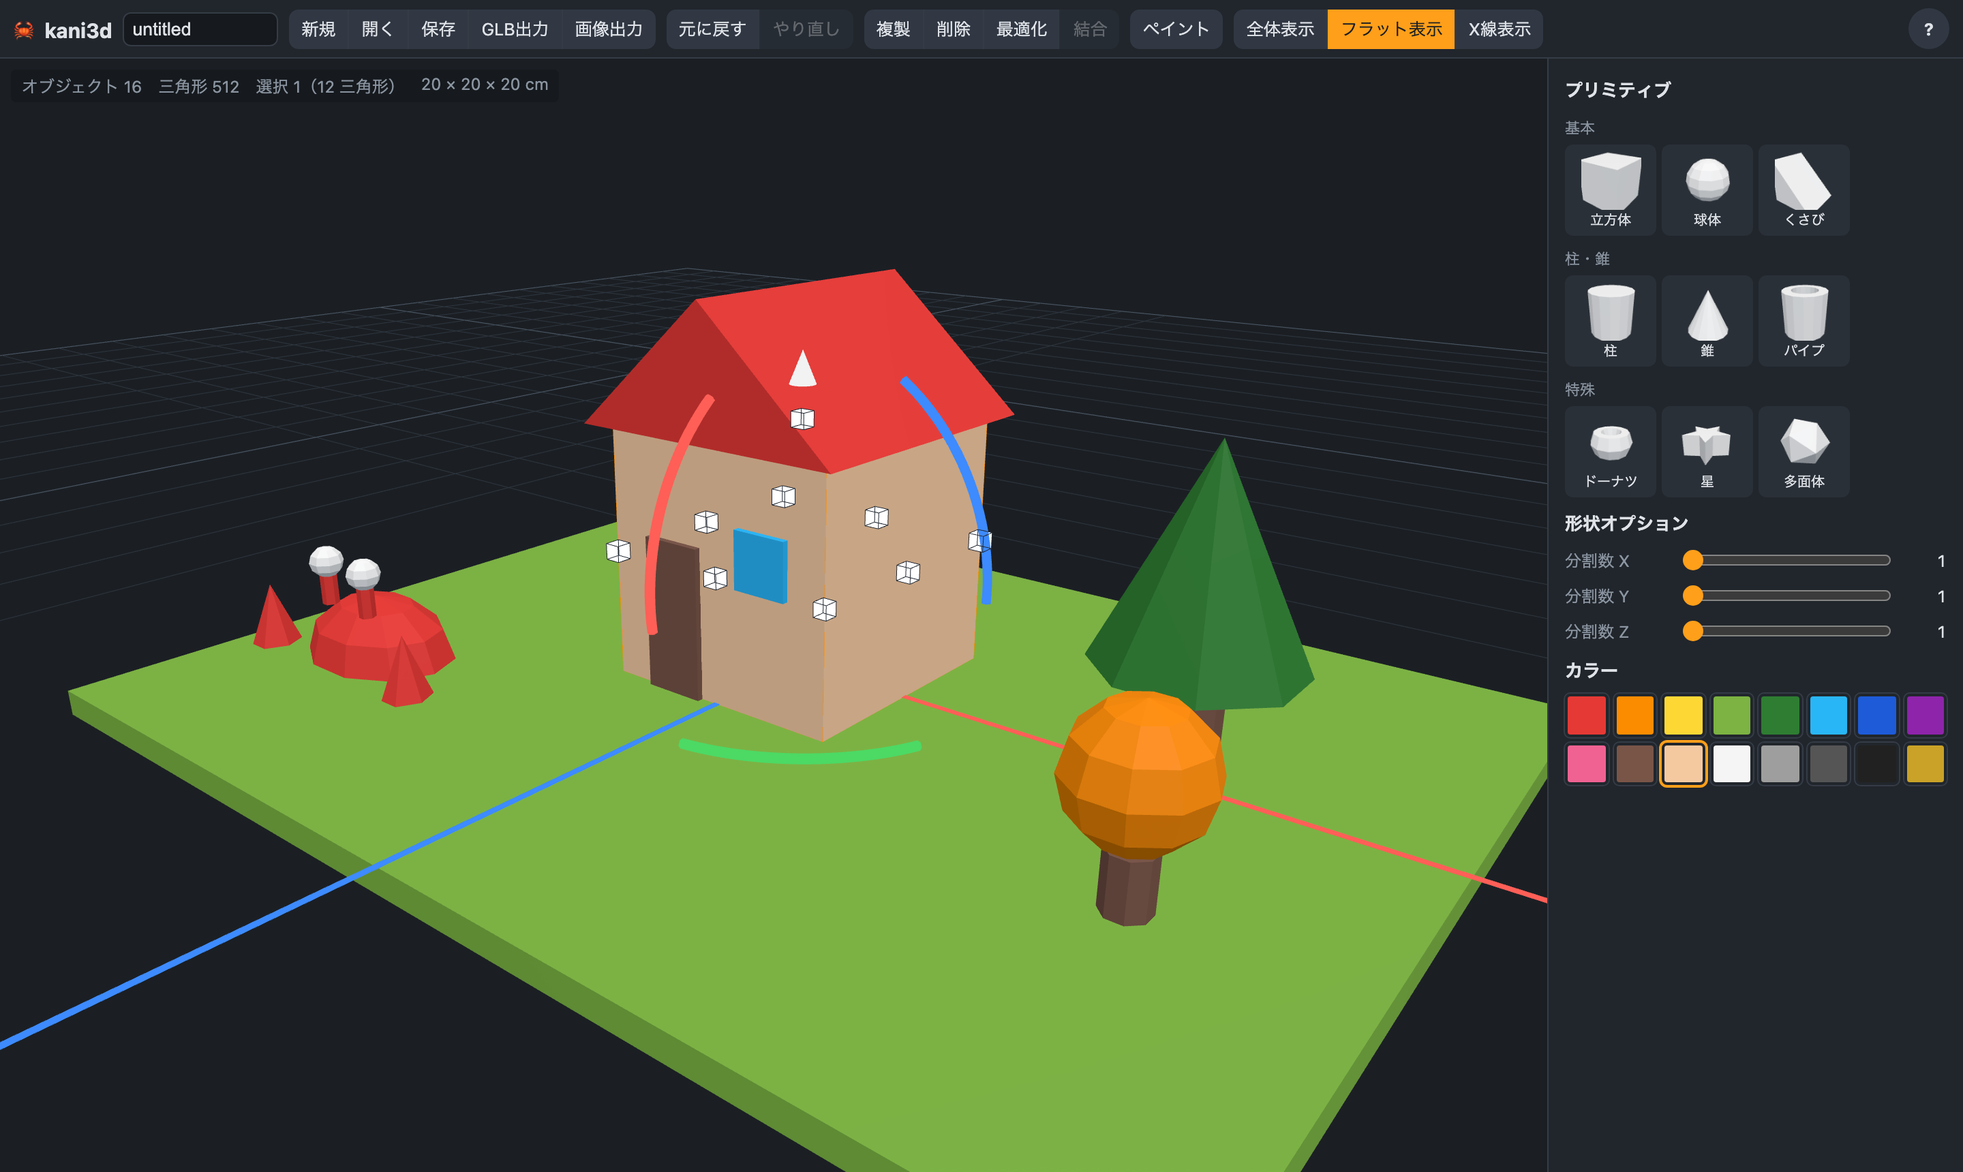
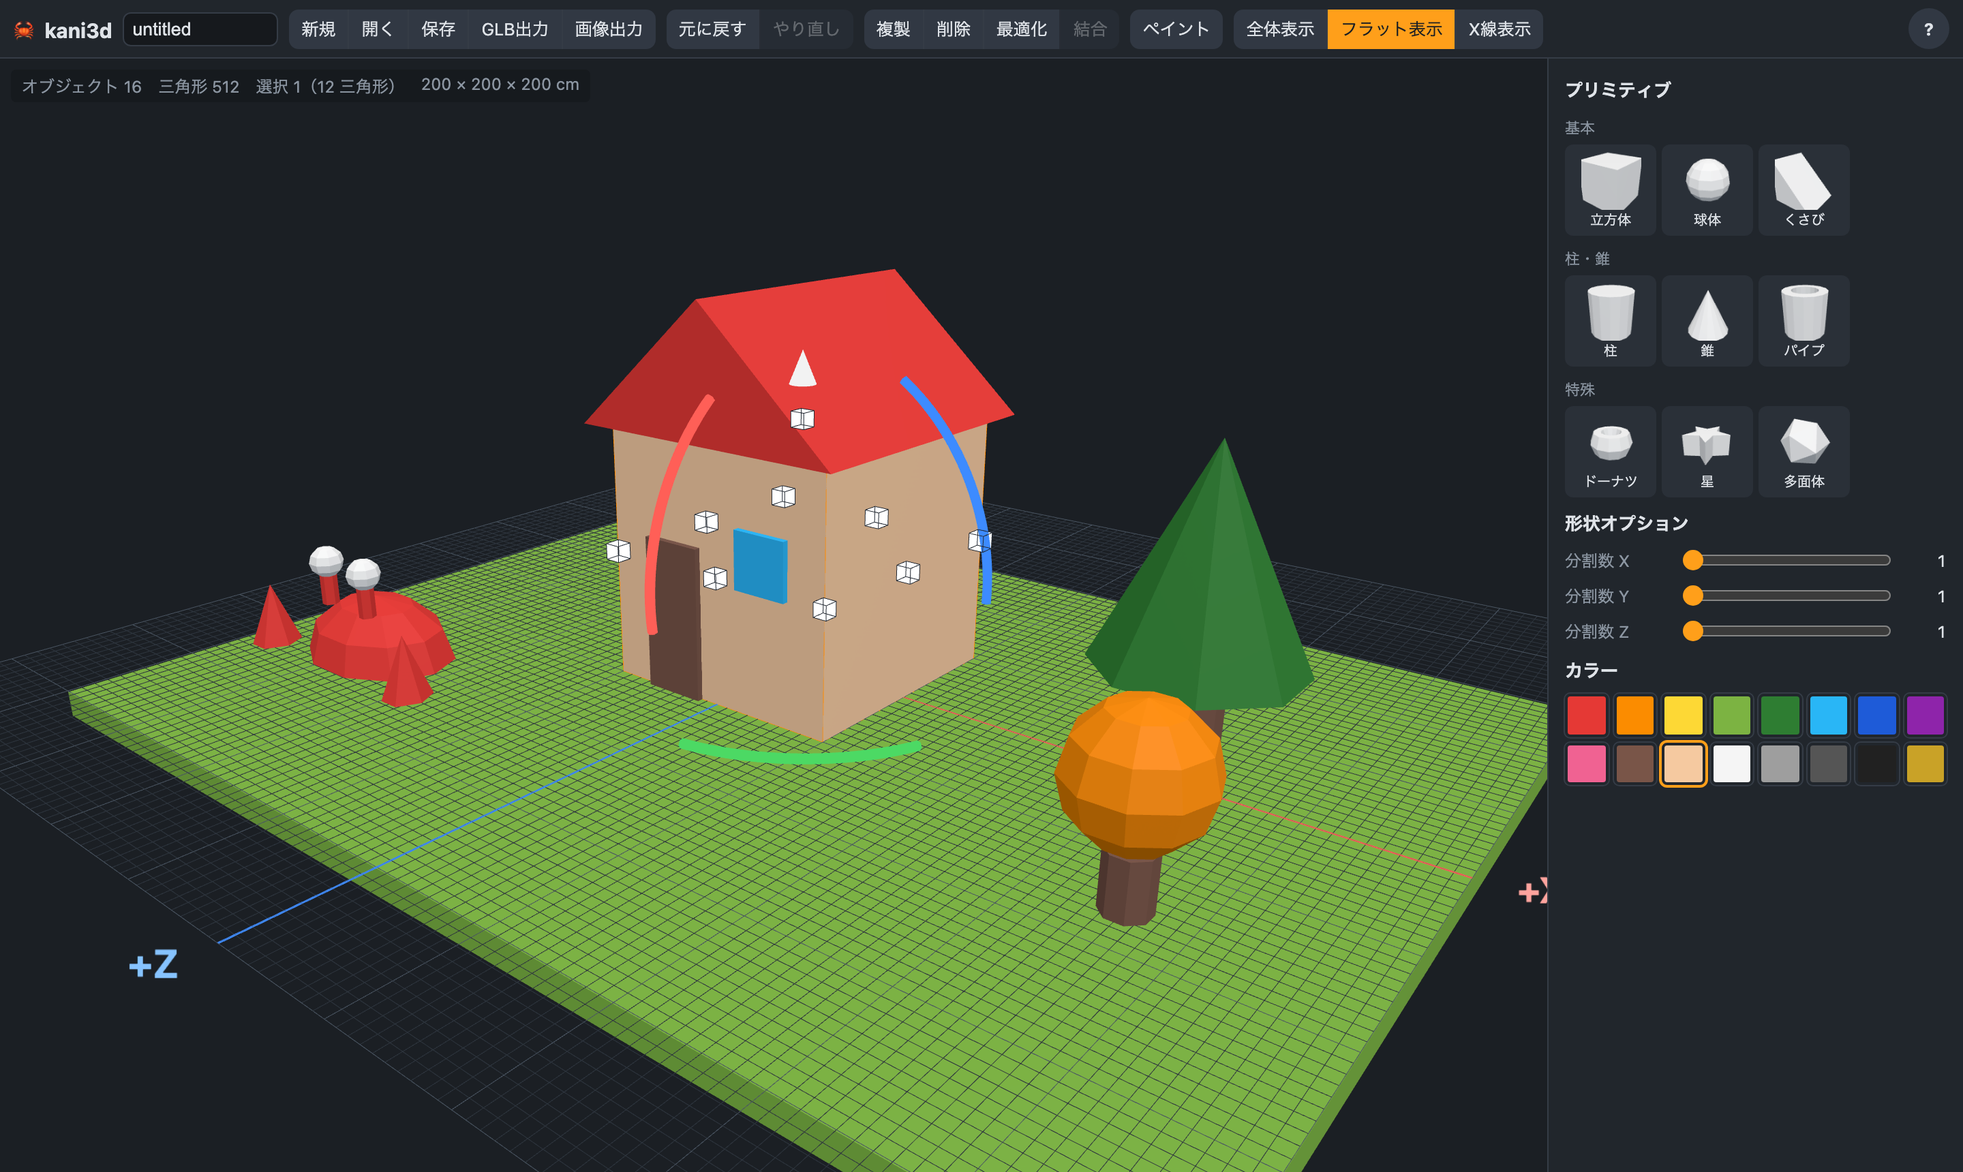
Default primitive size 1m and 10m grid plane (custom 1m/10cm grid lines); file format v2 with v1 scale migration; CSG nudge fallback for degenerate intersections; update tests and screenshot

diff --git a/src/core/merge.test.ts b/src/core/merge.test.ts
@@ -17,50 +17,50 @@ const tris = (m: { indices: number[] }) => m.indices.length / 3
 
 describe('mergeObjects', () => {
   it('隣接する同色立方体2つは 12 三角形の直方体になる', () => {
-    const { mesh, center } = mergeObjects([prim('cube', 1, [0, 0.05, 0]), prim('cube', 1, [0.1, 0.05, 0])])
+    const { mesh, center } = mergeObjects([prim('cube', 1, [0, 0.5, 0]), prim('cube', 1, [1, 0.5, 0])])
     expect(tris(mesh)).toBe(12)
     expect(mesh.groups).toHaveLength(1)
-    expect(center.x).toBeCloseTo(0.05)
+    expect(center.x).toBeCloseTo(0.5)
   })
 
   it('重なった同色立方体は 12 三角形', () => {
-    const { mesh } = mergeObjects([prim('cube', 1, [0, 0.05, 0]), prim('cube', 1, [0.05, 0.05, 0])])
+    const { mesh } = mergeObjects([prim('cube', 1, [0, 0.5, 0]), prim('cube', 1, [0.5, 0.5, 0])])
     expect(tris(mesh)).toBe(12)
   })
 
   it('異なる色は group として保持される', () => {
-    const { mesh } = mergeObjects([prim('cube', 1, [0, 0.05, 0]), prim('cube', 3, [0.1, 0.05, 0])])
+    const { mesh } = mergeObjects([prim('cube', 1, [0, 0.5, 0]), prim('cube', 3, [1, 0.5, 0])])
     expect(mesh.groups.map((g) => g.color).sort()).toEqual([1, 3])
     expect(tris(mesh)).toBeLessThanOrEqual(24)
   })
 
   it('L字配置でも面数が少ない', () => {
     const { mesh } = mergeObjects([
-      prim('cube', 0, [0, 0.05, 0]),
-      prim('cube', 0, [0.1, 0.05, 0]),
-      prim('cube', 0, [0, 0.15, 0]),
+      prim('cube', 0, [0, 0.5, 0]),
+      prim('cube', 0, [1, 0.5, 0]),
+      prim('cube', 0, [0, 1.5, 0]),
     ])
     // L字柱: 側面2枚は各 4 三角形以下、他の面は2三角形
     expect(tris(mesh)).toBeLessThanOrEqual(20)
   })
 
   it('球と立方体の結合が成功する', () => {
-    const { mesh } = mergeObjects([prim('cube', 0, [0, 0.05, 0]), prim('sphere', 2, [0.05, 0.1, 0])])
+    const { mesh } = mergeObjects([prim('cube', 0, [0, 0.5, 0]), prim('sphere', 2, [0.5, 1, 0])])
     expect(tris(mesh)).toBeGreaterThan(0)
     expect(new Set(mesh.groups.map((g) => g.color))).toEqual(new Set([0, 2]))
   })
 
   it('45°回転した立方体との結合で面数が増えすぎない', () => {
-    const { mesh } = mergeObjects([prim('cube', 0, [0, 0.05, 0]), prim('cube', 0, [0.05, 0.05, 0], Math.PI / 4)])
+    const { mesh } = mergeObjects([prim('cube', 0, [0, 0.5, 0]), prim('cube', 0, [0.5, 0.5, 0], Math.PI / 4)])
     // 上下面は各1ポリゴン（数三角形）、側面は 4+4 面程度
     expect(tris(mesh)).toBeLessThanOrEqual(30)
   })
 
   it('結合結果をさらに結合できる', () => {
-    const first = mergeObjects([prim('cube', 0, [0, 0.05, 0]), prim('cube', 0, [0.1, 0.05, 0])])
+    const first = mergeObjects([prim('cube', 0, [0, 0.5, 0]), prim('cube', 0, [1, 0.5, 0])])
     const g = geometryFromMeshData(first.mesh)
     const m = new Matrix4().makeTranslation(first.center.x, first.center.y, first.center.z)
-    const { mesh } = mergeObjects([{ geometry: g, matrixWorld: m }, prim('cube', 0, [0.2, 0.05, 0])])
+    const { mesh } = mergeObjects([{ geometry: g, matrixWorld: m }, prim('cube', 0, [2, 0.5, 0])])
     expect(tris(mesh)).toBe(12)
   })
 
@@ -79,12 +79,12 @@ describe('mergeObjects', () => {
     for (const a of variants) {
       for (const b of ['cube', 'sphere', 'prism', 'wedge']) {
         for (const [pos, rot] of [
-          [[0.04, 0.07, 0.03], Math.PI / 4],
-          [[0.05, 0.05, 0], 0], // 底面・天面が同一平面
-          [[0.02, 0.1, -0.03], Math.PI / 2],
-          [[0.03, 0.05, 0.02], Math.PI / 4], // 底面が同一平面で斜め
+          [[0.4, 0.7, 0.3], Math.PI / 4],
+          [[0.5, 0.5, 0], 0], // 底面・天面が同一平面
+          [[0.2, 1, -0.3], Math.PI / 2],
+          [[0.3, 0.5, 0.2], Math.PI / 4], // 底面が同一平面で斜め
         ] as const) {
-          const { mesh } = mergeObjects([prim(a.id, 0, [0, 0.05, 0], 0, a.params), prim(b, 1, [...pos], rot)])
+          const { mesh } = mergeObjects([prim(a.id, 0, [0, 0.5, 0], 0, a.params), prim(b, 1, [...pos], rot)])
           const r = checkMesh(mesh)
           if (r.open || r.flipped) report.push(`${a.id}${JSON.stringify(a.params ?? {})}+${b}@${pos}: open ${r.open} flip ${r.flipped}`)
           if (r.nonManifold) nonManifold++
@@ -97,7 +97,7 @@ describe('mergeObjects', () => {
   }, 60_000) // 網羅的で重いので（通常 1〜2 秒）
 
   it('checkMesh は穴を検出する', () => {
-    const { mesh } = mergeObjects([prim('cube', 0, [0, 0.05, 0]), prim('cube', 0, [0.1, 0.05, 0])])
+    const { mesh } = mergeObjects([prim('cube', 0, [0, 0.5, 0]), prim('cube', 0, [1, 0.5, 0])])
     const r = checkMesh({ positions: mesh.positions, indices: mesh.indices.slice(3) })
     expect(r.open).toBe(3)
   })

diff --git a/src/core/Editor.ts b/src/core/Editor.ts
@@ -12,8 +12,8 @@ import {
   Color,
   DirectionalLight,
   DoubleSide,
+  Float32BufferAttribute,
   FrontSide,
-  GridHelper,
   HemisphereLight,
   LineBasicMaterial,
   LineSegments,
@@ -223,18 +223,16 @@ export class Editor {
     dir.position.set(3, 5, 2)
     this.scene.add(dir)
 
-    const minor = new GridHelper(GRID_EXTENT, Math.round(GRID_EXTENT / GRID), '#2e353e', '#2e353e')
-    const major = new GridHelper(GRID_EXTENT, GRID_EXTENT, '#4a5562', '#4a5562')
+    // 10cm ごとの細線と 1m ごとの太線（一辺が奇数 m でも線が原点基準の格子に乗るよう自前で引く）
+    const minor = gridLines(GRID_EXTENT, GRID, '#2e353e', 1)
+    const major = gridLines(GRID_EXTENT, 1, '#4a5562')
     minor.position.y = -0.0005
-    for (const g of [minor, major]) {
-      g.raycast = () => {}
-      this.ground.add(g)
-    }
+    this.ground.add(minor, major)
     this.scene.add(this.ground)
     // 原点から +X / +Z 方向の軸ライン（細い板で太さを出す）
     const half = GRID_EXTENT / 2
     for (const axis of ['x', 'z'] as const) {
-      const w = 0.006
+      const w = 0.02
       const geo = new PlaneGeometry(axis === 'x' ? half : w, axis === 'x' ? w : half).rotateX(-Math.PI / 2)
       const line = new Mesh(geo, new MeshBasicMaterial({ color: AXIS_COLOR[axis], depthWrite: false }))
       line.position.set(axis === 'x' ? half / 2 : 0, 0.0008, axis === 'z' ? half / 2 : 0)
@@ -242,7 +240,7 @@ export class Editor {
       line.renderOrder = 1
       this.ground.add(line)
       const label = axisLabel(axis === 'x' ? '+X' : '+Z', AXIS_COLOR[axis])
-      label.position.set(axis === 'x' ? half + 0.12 : 0, 0.02, axis === 'z' ? half + 0.12 : 0)
+      label.position.set(axis === 'x' ? half + 0.35 : 0, 0.05, axis === 'z' ? half + 0.35 : 0)
       this.ground.add(label)
     }
   }
@@ -938,7 +936,7 @@ export class Editor {
 
   resetView(): void {
     this.orbit.target.set(0, 0, 0)
-    this.camera.position.set(0.45, 0.42, 0.6)
+    this.camera.position.set(3.6, 3.4, 4.8)
     this.orbit.update()
   }
 
@@ -988,7 +986,7 @@ export class Editor {
       const pos = m.geometry.getAttribute('position')
       for (let i = 0; i < pos.count; i++) pts.push(new Vector3().fromBufferAttribute(pos, i).applyMatrix4(m.matrixWorld))
     }
-    if (!pts.length) pts.push(new Vector3(-0.05, 0, -0.05), new Vector3(0.05, 0.1, 0.05))
+    if (!pts.length) pts.push(new Vector3(-0.5, 0, -0.5), new Vector3(0.5, 1, 0.5))
     // 余白を除いた範囲の画角（tan）
     const tanV0 = Math.tan((this.camera.fov * Math.PI) / 360)
     const tanH = tanV0 * (width / height) * Math.max(0.01, 1 - (2 * padding) / width)
@@ -1301,7 +1299,7 @@ function axisLabel(text: string, color: string): Sprite {
   ctx.fillStyle = color
   ctx.fillText(text, 64, 32)
   const sprite = new Sprite(new SpriteMaterial({ map: new CanvasTexture(c), depthWrite: false }))
-  sprite.scale.set(0.2, 0.1, 1)
+  sprite.scale.set(0.6, 0.3, 1)
   sprite.raycast = () => {}
   return sprite
 }
@@ -1406,3 +1404,21 @@ function baseColorOf(ud: ObjUserData): number {
 }
 
 const toVec3 = (v: Vector3): Vec3 => [v.x, v.y, v.z].map((x) => Math.round(x * 1e4) / 1e4) as Vec3
+
+/** 原点基準で step ごとの格子線（一辺 extent）。skipEvery を指定するとその倍数（太線と重なる線）を省く */
+function gridLines(extent: number, step: number, color: string, skipEvery?: number): LineSegments {
+  const half = extent / 2
+  const n = Math.floor(half / step + 1e-9)
+  const pts: number[] = []
+  for (let i = -n; i <= n; i++) {
+    const v = i * step
+    if (skipEvery && Math.abs(v / skipEvery - Math.round(v / skipEvery)) < 1e-9) continue
+    pts.push(v, 0, -half, v, 0, half, -half, 0, v, half, 0, v)
+  }
+  const lines = new LineSegments(
+    new BufferGeometry().setAttribute('position', new Float32BufferAttribute(pts, 3)),
+    new LineBasicMaterial({ color }),
+  )
+  lines.raycast = () => {}
+  return lines
+}

diff --git a/src/core/io.ts b/src/core/io.ts
@@ -1,6 +1,7 @@
 /** 保存形式 (.kani = JSON) の読み書きと GLB 出力 */
 import { Group, Mesh, type Object3D } from 'three'
 import { GLTFExporter } from 'three/examples/jsm/exporters/GLTFExporter.js'
+import { BASE_SIZE, BASE_SIZE_V1 } from './constants'
 import { clampColor, exportMaterials } from './palette'
 import { LEGACY_PRIMITIVES, compactParams, getPrimitive, resolveParams } from './primitives'
 import type { MeshData, SceneDoc, SceneObjectData } from './types'
@@ -8,7 +9,7 @@ import type { MeshData, SceneDoc, SceneObjectData } from './types'
 export const FILE_EXT = '.kani'
 
 export function createDoc(objects: SceneObjectData[]): SceneDoc {
-  return { format: 'kani3d', version: 1, objects }
+  return { format: 'kani3d', version: 2, objects }
 }
 
 const isNums = (v: unknown, len?: number): v is number[] =>
@@ -38,8 +39,24 @@ function parseMesh(m: unknown): MeshData {
 /** JSON 文字列を検証して SceneDoc にする。不正なら例外 */
 export function parseDoc(text: string): SceneDoc {
   const raw = JSON.parse(text) as Partial<SceneDoc>
-  if (raw.format !== 'kani3d' || raw.version !== 1 || !Array.isArray(raw.objects)) throw new Error('kani3d 形式ではありません')
-  return { format: 'kani3d', version: 1, objects: parseObjects(raw.objects, new Set(), 0) }
+  const version = raw.version as number
+  if (raw.format !== 'kani3d' || (version !== 1 && version !== 2) || !Array.isArray(raw.objects))
+    throw new Error('kani3d 形式ではありません')
+  const objects = parseObjects(raw.objects, new Set(), 0)
+  // v1 はプリミティブの基本サイズが 10cm だった。拡大率を換算して実寸を保つ
+  return { format: 'kani3d', version: 2, objects: version === 1 ? objects.map(migrateV1) : objects }
+}
+
+function migrateV1(o: SceneObjectData): SceneObjectData {
+  if (o.kind === 'primitive') {
+    const k = BASE_SIZE_V1 / BASE_SIZE
+    return { ...o, scale: [o.scale[0] * k, o.scale[1] * k, o.scale[2] * k] }
+  }
+  // 最適化済みプリミティブは「解除時にメッシュの拡大率を使う」ため換算できない。最適化前の情報は外す（見た目は変わらない）
+  const of = o.optimizedFrom && o.optimizedFrom.object.kind === 'mesh' ? { ...o.optimizedFrom, object: migrateV1(o.optimizedFrom.object) } : undefined
+  const { optimizedFrom: _drop, ...rest } = o
+  void _drop
+  return { ...rest, ...(o.sources && { sources: o.sources.map(migrateV1) }), ...(of && { optimizedFrom: of }) }
 }
 
 /** ids: シーン直下の ID 重複検出用（sources 内は結合解除時に振り直すので対象外） */

diff --git a/src/core/merge.ts b/src/core/merge.ts
@@ -663,8 +663,21 @@ export function mergeObjects(inputs: MergeInput[], opts: { simplify?: boolean } 
   // 分割方式・結合順を変えて試し、辺の問題が最も少ない結果を採用する
   let raw: Soup | null = null
   let best = Infinity
-  for (const [cdt, reverse] of [[true, false], [true, true], [false, false], [false, true]] as const) {
-    const soup = fillPlanarHoles(fixTJunctions(clusterVertices(csgUnion(reverse ? [...inputs].reverse() : inputs, cdt))))
+  // それでも残る場合は、交差がちょうど頂点をかすめるような退化配置とみなし、
+  // 2 つ目以降をごくわずか（数 µm）ずらして再計算する。ずれは clusterVertices（0.05mm）で吸収される
+  const nudged = (k: number): MergeInput[] =>
+    inputs.map((inp, i) =>
+      i === 0 ? inp : { ...inp, matrixWorld: new Matrix4().makeTranslation(1e-6 * k, 1.7e-6 * k, 2.3e-6 * k).multiply(inp.matrixWorld) },
+    )
+  const strategies: [MergeInput[], boolean][] = [
+    [inputs, true],
+    [[...inputs].reverse(), true],
+    [inputs, false],
+    [[...inputs].reverse(), false],
+    ...[1, 2, 3].map((k): [MergeInput[], boolean] => [nudged(k), true]),
+  ]
+  for (const [list, cdt] of strategies) {
+    const soup = fillPlanarHoles(fixTJunctions(clusterVertices(csgUnion(list, cdt))))
     const issues = soupIssueEdges(soup).size
     if (issues < best) [raw, best] = [soup, issues]
     if (issues === 0) break

diff --git a/e2e/gizmo.spec.ts b/e2e/gizmo.spec.ts
@@ -30,10 +30,10 @@ test('天面ハンドルで高さだけ伸び、底面は固定', async ({ page 
   const h = (await handles(page))['scale:0,1,0']
   await drag(page, h, { x: h.x, y: h.y - 120 })
   const b = await bounds(page)
-  expect(b.min).toEqual([-0.05, 0, -0.05])
-  expect(b.max[1]).toBeGreaterThan(0.12)
+  expect(b.min).toEqual([-0.5, 0, -0.5])
+  expect(b.max[1]).toBeGreaterThan(1.05)
   expect(onGrid(b.max[1])).toBe(true)
-  expect(b.max[0]).toBeCloseTo(0.05)
+  expect(b.max[0]).toBeCloseTo(0.5)
 })
 
 test('角ハンドルは反対の角を固定して X/Z を伸縮', async ({ page }) => {
@@ -42,10 +42,10 @@ test('角ハンドルは反対の角を固定して X/Z を伸縮', async ({ pag
   const away = { x: h.x + (h.x - hs['scale:-1,0,-1'].x) * 0.6, y: h.y + (h.y - hs['scale:-1,0,-1'].y) * 0.6 }
   await drag(page, h, away)
   const b = await bounds(page)
-  expect(b.min).toEqual([-0.05, 0, -0.05]) // 反対角は動かない
-  expect(b.max[0]).toBeGreaterThan(0.08)
-  expect(b.max[2]).toBeGreaterThan(0.08)
-  expect(b.max[1]).toBeCloseTo(0.1) // 高さは不変
+  expect(b.min).toEqual([-0.5, 0, -0.5]) // 反対角は動かない
+  expect(b.max[0]).toBeGreaterThan(0.55)
+  expect(b.max[2]).toBeGreaterThan(0.55)
+  expect(b.max[1]).toBeCloseTo(1) // 高さは不変
   for (const v of [...b.min, ...b.max]) expect(onGrid(v)).toBe(true)
 })
 

diff --git a/src/core/io.test.ts b/src/core/io.test.ts
@@ -61,3 +61,25 @@ describe('parseDoc の検証強化', () => {
     expect((d.objects[0] as { mesh: { groups: unknown[] } }).mesh.groups).toHaveLength(1)
   })
 })
+
+describe('v1 → v2 移行（基本サイズ 10cm → 1m）', () => {
+  it('プリミティブの拡大率を 1/10 にして実寸を保つ（結合元も）', () => {
+    const t = { position: [0, 0.05, 0], quaternion: [0, 0, 0, 1], scale: [2, 1, 1] }
+    const mesh = { positions: [0, 0, 0, 1, 0, 0, 0, 1, 0], normals: [0, 0, 1, 0, 0, 1, 0, 0, 1], indices: [0, 1, 2], groups: [] }
+    const v1 = {
+      format: 'kani3d',
+      version: 1,
+      objects: [
+        { id: 'a', kind: 'primitive', primitive: 'cube', color: 0, ...t },
+        { id: 'm', kind: 'mesh', mesh, ...t, sources: [{ id: 's', kind: 'primitive', primitive: 'cube', color: 0, ...t }] },
+      ],
+    }
+    const d = parseDoc(JSON.stringify(v1))
+    expect(d.version).toBe(2)
+    expect(d.objects[0].scale).toEqual([expect.closeTo(0.2), expect.closeTo(0.1), expect.closeTo(0.1)])
+    expect(d.objects[1].scale).toEqual([2, 1, 1]) // メッシュは実寸の頂点を持つのでそのまま
+    expect((d.objects[1] as { sources: { scale: number[] }[] }).sources[0].scale[0]).toBeCloseTo(0.2)
+    // v2 はそのまま
+    expect(parseDoc(stringifyDoc(d))).toEqual(d)
+  })
+})

diff --git a/src/core/constants.ts b/src/core/constants.ts
@@ -5,9 +5,11 @@ export const SNAP = 0.05
 /** 回転スナップ 45° */
 export const ROT_STEP = Math.PI / 4
 /** 地面グリッドの一辺 (m) */
-export const GRID_EXTENT = 4
+export const GRID_EXTENT = 10
 /** プリミティブの基本サイズ (m) */
-export const BASE_SIZE = 0.1
+export const BASE_SIZE = 1
+/** 保存形式 v1 の基本サイズ（読み込み時に拡大率を換算して実寸を保つ） */
+export const BASE_SIZE_V1 = 0.1
 
 /** step 単位に丸める（浮動小数の誤差を 1e-9 で切り捨て） */
 export const snapValue = (v: number, step = SNAP): number => Math.round(Math.round(v / step) * step * 1e9) / 1e9

diff --git a/src/core/types.ts b/src/core/types.ts
@@ -49,6 +49,6 @@ export type SceneObjectData = PrimitiveObject | MeshObject
 
 export interface SceneDoc {
   format: 'kani3d'
-  version: 1
+  version: 2
   objects: SceneObjectData[]
 }

diff --git a/docs/ARCHITECTURE.md b/docs/ARCHITECTURE.md
@@ -21,7 +21,7 @@ three.js オブジェクトは Vue のリアクティブにしない（`markRaw`
 | 単体の面数最適化 | `Editor.optimizeSelected`（オブジェクトのローカル座標で 1 入力の `mergeObjects` を通す。位置・回転・拡縮は保持。最適化前の形は `optimizedFrom` に残し、ボタンは結合と同様に切り替え式で「最適化解除」で戻す〈`store.optimizeMode`〉。結合物の `sources` は原点のずれ分を補正して引き継ぐので結合解除も可能） |
 | 旧形式のプリミティブ ID の変換 | `primitives.ts` の `LEGACY_PRIMITIVES`（`io.parseDoc` が適用） |
 | 色の追加・変更 | `core/palette.ts`（インデックス＝保存される色ID。並べ替え禁止、追加は末尾） |
-| 表示グリッド(10cm)・スナップ単位(5cm)・回転刻み・初期サイズ(10cm) | `core/constants.ts`（`GRID` は表示のみ、スナップは `SNAP`） |
+| 表示グリッド(10cm 間隔・一辺 10m)・スナップ単位(5cm)・回転刻み・初期サイズ(1m) | `core/constants.ts`（`GRID` は表示のみ、スナップは `SNAP`） |
 | フラット表示切替（エディタ上の見た目のみ。全マテリアルの `flatShading`、GLB には影響なし） | `Editor.setFlatShading`、記憶は `store.ts` |
 | カメラのフィット（全体表示・起動/読み込み時の自動フィット） | `Editor.frameAll / fitBox / resetView` |
 | 結合解除 | `Editor.unmergeSelected`（データは `MeshObject.sources`）。ボタンは結合と共用（`store.mergeMode`: 複数選択→結合、結合物 1 つ→解除） |

diff --git a/docs/FILE_FORMAT.md b/docs/FILE_FORMAT.md
@@ -3,7 +3,7 @@
 ```jsonc
 {
   "format": "kani3d",
-  "version": 1,
+  "version": 2,
   "objects": [
     {
       "id": "o...", "kind": "primitive",
@@ -32,5 +32,6 @@
 ```
 - 読み込みは `io.parseDoc()` が検証。不正な色IDは既定色に丸め、重複・欠落 ID は振り直し、回転は正規化。未知のプリミティブ、scale 0、ゼロ長の回転、不正なインデックス・groups 範囲、深すぎる `sources` の入れ子はエラー。
 - パラメータ導入前の旧プリミティブ ID（`tri-prism`・`cylinder`・`hemisphere` など）は読み込み時に新 ID＋params へ変換する（`LEGACY_PRIMITIVES`）。削除した `stairs`・`arch` は立方体になる。
+- v1（プリミティブの基本サイズ 10cm）は読み込み時に v2（1m）へ移行し、プリミティブの拡大率を 1/10 にして実寸を保つ（結合元も含む。最適化済みプリミティブの最適化前情報は換算できないため外す）。
 - 互換性を壊す変更をしたら `version` を上げ、`parseDoc` に移行処理を書く。
 - GLB 出力: オブジェクトごとに 1 ノード／色ごとに 1 primitive、マテリアルはパレット色名の PBR（metalness 0, roughness 0.7）。
